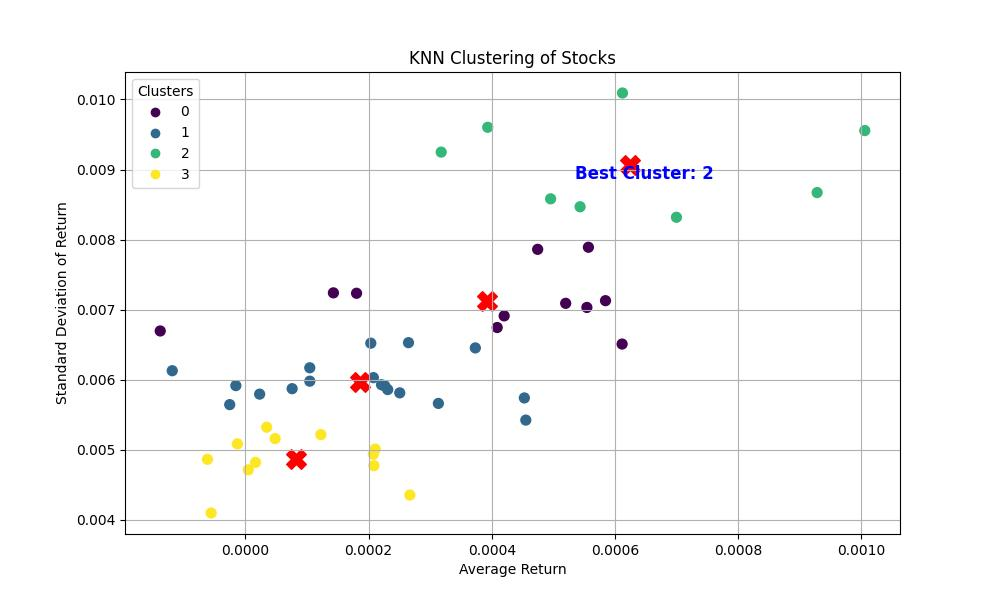
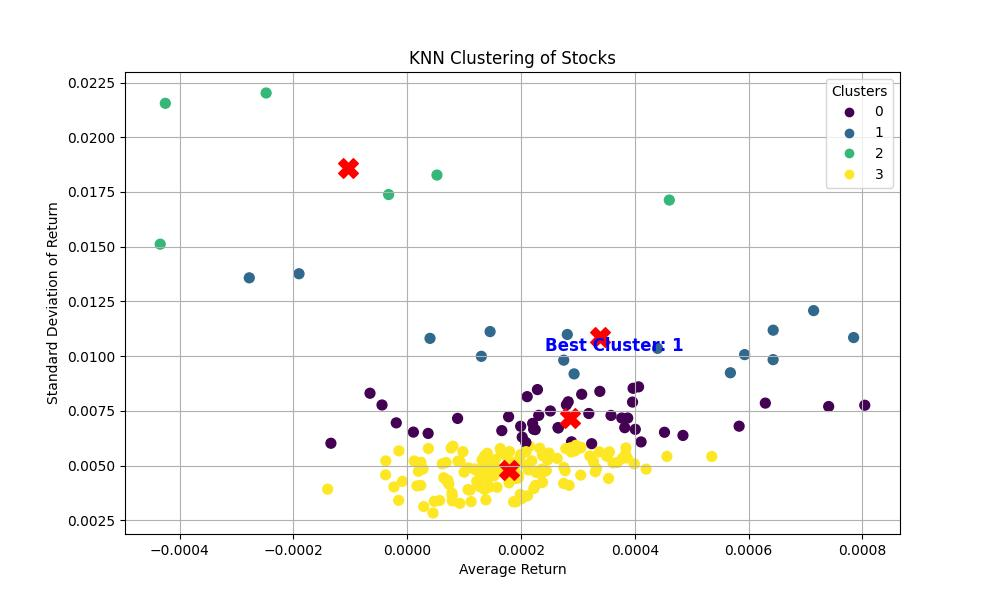
changes

diff --git a/equityDelta/threeSupertrend.py b/equityDelta/threeSupertrend.py
@@ -55,22 +55,27 @@ class equityDelta(baseAlgoLogic):
         supertrend_one = ta.supertrend(df["h"], df["l"], df["c"], length=100, multiplier=3.6)
         supertrend_two = ta.supertrend(df["h"], df["l"], df["c"], length=100, multiplier=2.7)
         supertrend_three = ta.supertrend(df["h"], df["l"], df["c"], length=100, multiplier=1.8)
+        stoch_rsi = ta.momentum.stochrsi(df['c'], length=14, rsi_length=14, k=3, d=3)
 
         df['SupertrendColourOne'] = supertrend_one['SUPERTd_100_3.6']
         df['SupertrendColourTwo'] = supertrend_two['SUPERTd_100_2.7']
         df['SupertrendColourThree'] = supertrend_three['SUPERTd_100_1.8']
+        df['Stochastic_rsi'] = stoch_rsi['STOCHRSIk_14_14_3_3']
+        
+        
 
         df['EntryLong'] = np.where(
             (df['SupertrendColourOne'] == 1) &
             (df['SupertrendColourTwo'] == 1) &
-            (df['SupertrendColourThree'] == 1),
+            (df['SupertrendColourThree'] == 1)&
+            (df['Stochastic_rsi'] > 0.8),
             "EntryLong", "")
 
-        df['EntryShort'] = np.where(
-            (df['SupertrendColourOne'] == -1) &
-            (df['SupertrendColourTwo'] == -1) &
-            (df['SupertrendColourThree'] == -1),
-            "EntryShort", "")
+        # df['EntryShort'] = np.where(
+        #     (df['SupertrendColourOne'] == -1) &
+        #     (df['SupertrendColourTwo'] == -1) &
+        #     (df['SupertrendColourThree'] == -1),
+        #     "EntryShort", "")
 
         df['ExitLong'] = np.where(df['SupertrendColourTwo'] == -1, "ExitLong", "")
         df['ExitShort'] = np.where(df['SupertrendColourThree'] == 1, "ExitShort", "")
@@ -138,12 +143,12 @@ if __name__ == "__main__":
     strategyName = "equityDelta"
     version = "v1"
 
-    startDate = datetime(2024, 1, 1, 9, 15)
-    endDate = datetime(2024, 2, 29, 15, 30)
+    startDate = datetime(2021, 1, 1, 9, 15)
+    endDate = datetime(2025, 4, 30, 15, 30)
 
     # portfolio = createPortfolio("/root/akashResearchAndDevelopment/stocksList/nifty500.md", 1)
     # portfolio = createPortfolio("/root/akashResearchAndDevelopment/stocksList/ani.md", 1)
-    portfolio = createPortfolio("/root/aniket/stocks_list_feb24.txt", 1)
+    portfolio = createPortfolio("/root/aniket/stock_names (1).txt", 1)
 
     algoLogicObj = equityDelta(devName, strategyName, version)
     fileDir, closedPnl = algoLogicObj.runBacktest(portfolio, startDate, endDate)

diff --git a/ML/KNN/KNN_2.py b/ML/KNN/KNN_2.py
@@ -26,7 +26,7 @@ def fetch_stock_data(stocks, start_date, end_date):
             print(f"Fetching data for stock: {stock}")
 
             # Fetch historical data for the stock with start_date and end_date
-            df = getEquityBacktestData(stock, start_date.timestamp(), end_date.timestamp(), "75min")  # Fetch daily data
+            df = getEquityBacktestData(stock, start_date.timestamp(), end_date.timestamp(), "45min")  # Fetch daily data
             if df is None or df.empty:
                 print(f"Data not found for {stock}. Skipping...")
                 continue  # Skip this stock if no data is found
@@ -111,12 +111,12 @@ def apply_elbow_method(data, max_clusters=10, output_path="/root/aniket/ML/elbow
 # Main function
 def main():
     # Load stock names
-    stock_file = "/root/aniket/nifty_50.md"
+    stock_file = "/root/aniket/stock_list_elbow.txt"
     stocks = load_stock_names(stock_file)
 
     # Define start and end dates
     start_date = pd.Timestamp("2021-01-01")
-    end_date = pd.Timestamp("2024-05-31")
+    end_date = pd.Timestamp("2023-12-31")
 
     # Fetch stock data
     data_frames, valid_stocks = fetch_stock_data(stocks, start_date, end_date)
